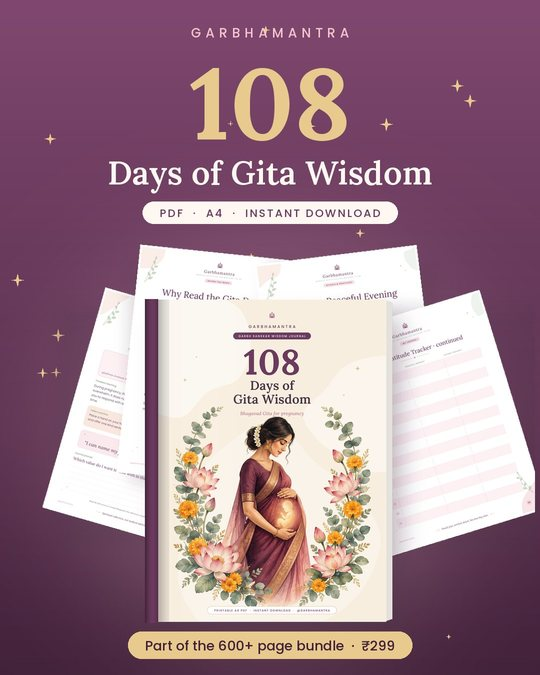
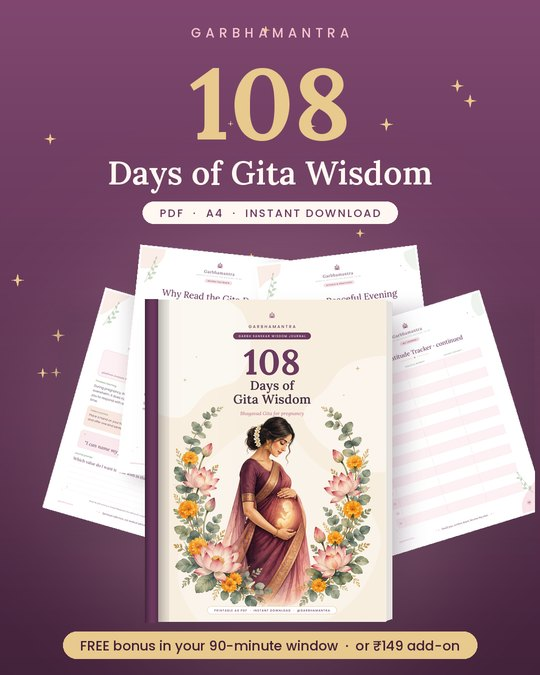
New offer: 7-book bundle (500+ pages) + Brain & Bonding and Gita ₹149 add-ons
Copy, offer card, checklist and FAQ updated; banner, hero, share image and
category cards regenerated; images versioned to bust caches.

Changed region(s): [[0.1185, 0.9333, 0.8889, 0.9956]]

diff --git a/index.html b/index.html
@@ -5,13 +5,13 @@
 <meta name="viewport" content="width=device-width, initial-scale=1">
 <meta name="color-scheme" content="only light">
 <meta name="theme-color" content="#6B3A5E">
-<meta property="og:title" content="600+ Page Pregnancy Activity Bundle · Garbhamantra">
-<meta property="og:description" content="8 printable activity books for mothers-to-be, plus a free Bhagavad Gita for Pregnancy bonus. ₹299, instant download.">
-<meta property="og:image" content="https://garbhamantra.com/img/og.jpg">
+<meta property="og:title" content="500+ Page Pregnancy Activity Bundle · Garbhamantra">
+<meta property="og:description" content="7 printable activity books for mothers-to-be, plus a free Bhagavad Gita for Pregnancy bonus. ₹299, instant download.">
+<meta property="og:image" content="https://garbhamantra.com/img/og.jpg?v=20261023">
 <meta property="og:url" content="https://garbhamantra.com/">
 <meta name="twitter:card" content="summary_large_image">
 <title>Garbhamantra Activity Books</title>
-<meta name="description" content="8 beautifully designed activity books for mothers-to-be, 614 printable pages, plus a free Bhagavad Gita for Pregnancy bonus book.">
+<meta name="description" content="7 beautifully designed activity books for mothers-to-be, 514 printable pages, plus a free Bhagavad Gita for Pregnancy bonus book and an optional Brain &amp; Bonding add-on.">
 <link rel="preconnect" href="https://fonts.googleapis.com">
 <link rel="preconnect" href="https://fonts.gstatic.com" crossorigin>
 <link rel="stylesheet" href="https://fonts.googleapis.com/css2?family=Lora:ital,wght@0,400;0,500;0,600;1,400;1,500&family=Poppins:wght@300;400;500;600&display=swap">
@@ -217,6 +217,7 @@ footer{padding-block:48px 120px;font-size:.84rem;color:var(--muted)}
 .book.bonus .tagb{display:inline-block;background:var(--rose);color:#fff;font-size:.7rem;letter-spacing:.12em;padding:5px 12px;border-radius:999px;margin-bottom:8px}
 .book.bonus h3{font-size:1.35rem;margin-bottom:6px}
 .book .cv img{aspect-ratio:1/1;object-fit:cover}
+.book.addon-card{background:#EEF3EA;border-color:var(--sage-deep)}.book.addon-card .tagb{background:var(--sage-deep)}
 .addon{display:grid;grid-template-columns:22px 1fr auto;gap:12px;align-items:start;text-align:left;background:var(--blush-soft);border-radius:14px;padding:12px 14px;font-size:.92rem}
 .buybar .bt2{font-size:.7rem;color:var(--rose);font-variant-numeric:tabular-nums}
 
@@ -265,7 +266,7 @@ html{scroll-padding-top:64px}
   <symbol id="check" viewBox="0 0 22 22"><circle cx="11" cy="11" r="11" fill="#E7EEE3"/><path d="M6.5 11.5l3 3 6-7" fill="none" stroke="#6E8A66" stroke-width="2" stroke-linecap="round" stroke-linejoin="round"/></symbol>
 </svg>
 
-<div class="topbar" id="topbar"><span data-bonus-on>Order in the next <span class="tt" data-timer-text>1:30:00</span> and get the <b>Bhagavad Gita for Pregnancy</b> book FREE</span><span data-bonus-off hidden>All 8 books for <b data-price>₹299</b> · Add the Gita book at checkout for <b data-addon>₹149</b></span></div>
+<div class="topbar" id="topbar"><span data-bonus-on>Order in the next <span class="tt" data-timer-text>1:30:00</span> and get the <b>Bhagavad Gita for Pregnancy</b> book FREE</span><span data-bonus-off hidden>All 7 books for <b data-price>₹299</b> · Add the Gita or Brain &amp; Bonding at checkout for <b data-addon>₹149</b> each</span></div>
 
 <div class="wrap">
   <nav class="nav" aria-label="Main">
@@ -278,24 +279,24 @@ html{scroll-padding-top:64px}
 <!-- ===== TOP FUNNEL ===== -->
 <section class="tf">
   <div class="wrap">
-    <h1 class="tf-h">600+ Page Pregnancy Activity Book Bundle <span>in One Price</span></h1>
-    <p class="tf-sub">From mazes and sudoku to mandalas, tracing and baby-bonding, something calm on every page.</p>
-    <a href="#offer" data-buy class="tf-banner-link"><img class="tf-banner" src="img/banner-hero.jpg" alt="600+ page Pregnancy Activity Book Bundle, printable PDF activities, ₹299" width="1600" height="900" fetchpriority="high"></a>
+    <h1 class="tf-h">500+ Page Pregnancy Activity Book Bundle <span>in One Price</span></h1>
+    <p class="tf-sub">From mazes and sudoku to memory games, mandalas and blooming letters, something calm on every page.</p>
+    <a href="#offer" data-buy class="tf-banner-link"><img class="tf-banner" src="img/banner-hero.jpg?v=20261023" alt="500+ page Pregnancy Activity Book Bundle, printable PDF activities, ₹299" width="1600" height="900" fetchpriority="high"></a>
   </div>
 </section>
 <!-- ===== QUICK CHECKLIST ===== -->
-<section class="quick"><div class="wrap"><ul class="quick-list"><li><span class="ck"><svg width="18" height="18" viewBox="0 0 18 18" aria-hidden="true"><path d="M4 9.5l3.2 3.2L14 5.8" fill="none" stroke="#4E2744" stroke-width="2.4" stroke-linecap="round" stroke-linejoin="round"/></svg></span><span>Mazes, Sudoku, Memory, Mandala, Tracing &amp; Bonding Activities</span></li><li><span class="ck"><svg width="18" height="18" viewBox="0 0 18 18" aria-hidden="true"><path d="M4 9.5l3.2 3.2L14 5.8" fill="none" stroke="#4E2744" stroke-width="2.4" stroke-linecap="round" stroke-linejoin="round"/></svg></span><span><span data-bonus-on>FREE Gita Bonus Book if you order in the next <b data-timer-text>1:30:00</b></span><span data-bonus-off hidden>Add the Gita Bonus Book for just <b data-addon>₹149</b></span></span></li><li><span class="ck"><svg width="18" height="18" viewBox="0 0 18 18" aria-hidden="true"><path d="M4 9.5l3.2 3.2L14 5.8" fill="none" stroke="#4E2744" stroke-width="2.4" stroke-linecap="round" stroke-linejoin="round"/></svg></span><span>Printable PDF &nbsp;|&nbsp; Instant Access &nbsp;|&nbsp; Lifetime Access</span></li><li><span class="ck"><svg width="18" height="18" viewBox="0 0 18 18" aria-hidden="true"><path d="M4 9.5l3.2 3.2L14 5.8" fill="none" stroke="#4E2744" stroke-width="2.4" stroke-linecap="round" stroke-linejoin="round"/></svg></span><span>Works on Mobile, Tablet &amp; Computer</span></li><li><span class="ck"><svg width="18" height="18" viewBox="0 0 18 18" aria-hidden="true"><path d="M4 9.5l3.2 3.2L14 5.8" fill="none" stroke="#4E2744" stroke-width="2.4" stroke-linecap="round" stroke-linejoin="round"/></svg></span><span>600+ pages &nbsp;·&nbsp; 8 books &nbsp;·&nbsp; just <b data-price>₹299</b></span></li></ul></div></section>
+<section class="quick"><div class="wrap"><ul class="quick-list"><li><span class="ck"><svg width="18" height="18" viewBox="0 0 18 18" aria-hidden="true"><path d="M4 9.5l3.2 3.2L14 5.8" fill="none" stroke="#4E2744" stroke-width="2.4" stroke-linecap="round" stroke-linejoin="round"/></svg></span><span>Mazes, Sudoku, Memory, Mandala &amp; Blooming Letters Activities</span></li><li><span class="ck"><svg width="18" height="18" viewBox="0 0 18 18" aria-hidden="true"><path d="M4 9.5l3.2 3.2L14 5.8" fill="none" stroke="#4E2744" stroke-width="2.4" stroke-linecap="round" stroke-linejoin="round"/></svg></span><span><span data-bonus-on>FREE Gita Bonus Book if you order in the next <b data-timer-text>1:30:00</b></span><span data-bonus-off hidden>Add the Gita Bonus Book for just <b data-addon>₹149</b></span></span></li><li><span class="ck"><svg width="18" height="18" viewBox="0 0 18 18" aria-hidden="true"><path d="M4 9.5l3.2 3.2L14 5.8" fill="none" stroke="#4E2744" stroke-width="2.4" stroke-linecap="round" stroke-linejoin="round"/></svg></span><span>Add 95+ Brain &amp; Bonding Activities for just <b data-bonding>₹149</b></span></li><li><span class="ck"><svg width="18" height="18" viewBox="0 0 18 18" aria-hidden="true"><path d="M4 9.5l3.2 3.2L14 5.8" fill="none" stroke="#4E2744" stroke-width="2.4" stroke-linecap="round" stroke-linejoin="round"/></svg></span><span>Printable PDF &nbsp;|&nbsp; Instant Access &nbsp;|&nbsp; Lifetime Access</span></li><li><span class="ck"><svg width="18" height="18" viewBox="0 0 18 18" aria-hidden="true"><path d="M4 9.5l3.2 3.2L14 5.8" fill="none" stroke="#4E2744" stroke-width="2.4" stroke-linecap="round" stroke-linejoin="round"/></svg></span><span>Works on Mobile, Tablet &amp; Computer</span></li><li><span class="ck"><svg width="18" height="18" viewBox="0 0 18 18" aria-hidden="true"><path d="M4 9.5l3.2 3.2L14 5.8" fill="none" stroke="#4E2744" stroke-width="2.4" stroke-linecap="round" stroke-linejoin="round"/></svg></span><span>500+ pages &nbsp;·&nbsp; 7 books &nbsp;·&nbsp; just <b data-price>₹299</b></span></li></ul></div></section>
 <section class="tf-offer-sec">
   <div class="wrap">
     <div class="tf-offer">
-      <p class="tf-offer-t"><span class="tag">SPECIAL OFFER</span> 600+ page bundle <b>+ FREE Gita bonus book</b></p>
+      <p class="tf-offer-t"><span class="tag">SPECIAL OFFER</span> 500+ page bundle <b>+ FREE Gita bonus book</b></p>
       <div class="timer" data-bonus-on aria-live="polite">
         <span class="u"><b data-h>01</b><small>HRS</small></span><span class="sep">:</span>
         <span class="u"><b data-m>30</b><small>MIN</small></span><span class="sep">:</span>
         <span class="u"><b data-s>00</b><small>SEC</small></span>
       </div>
       <p class="tf-offer-off" data-bonus-off hidden>Bonus window ended. Add the Gita book at checkout for <span data-addon>₹149</span>.</p>
-      <a class="btn btn-primary tf-btn" data-buy href="#offer">Get all 8 books for <span data-price>₹299</span> <span aria-hidden="true">→</span></a>
+      <a class="btn btn-primary tf-btn" data-buy href="#offer">Get all 7 books for <span data-price>₹299</span> <span aria-hidden="true">→</span></a>
     </div>
   </div>
 </section>
@@ -305,9 +306,9 @@ html{scroll-padding-top:64px}
   <div class="blob b1"></div><div class="blob b2"></div><div class="blob b3"></div>
   <div class="wrap hero-grid">
     <div class="hero-copy">
-      <span class="eyebrow">600+ page pregnancy activity bundle</span>
+      <span class="eyebrow">500+ page pregnancy activity bundle</span>
       <h2 class="h1like">Nine months of calm, <em>one page</em> at a time.</h2>
-      <p class="lead">Eight beautifully designed books of mazes, mandalas, puzzles and bonding activities. A few quiet minutes a day to slow your breath, sharpen your mind and talk to your baby.</p>
+      <p class="lead">Seven beautifully designed books of mazes, mandalas, puzzles and memory games. A few quiet minutes a day to slow your breath, sharpen your mind and talk to your baby.</p>
       <div class="price-line">
         <span class="price-now" data-price>₹299</span>
         <span class="price-old" data-mrp hidden></span>
@@ -323,18 +324,18 @@ html{scroll-padding-top:64px}
       </div>
       <p class="bonus-ended" data-bonus-off hidden>The free bonus window has ended. You can still add the Bhagavad Gita for Pregnancy book at checkout for <span data-addon>₹149</span>.</p>
       <div class="cta-row">
-        <a class="btn btn-primary" data-buy href="#offer">Get all 8 books <span aria-hidden="true">→</span></a>
+        <a class="btn btn-primary" data-buy href="#offer">Get all 7 books <span aria-hidden="true">→</span></a>
         <a class="btn btn-ghost" href="#peek">Peek inside</a>
       </div>
       <div class="micro">
         <span><svg width="16" height="16" viewBox="0 0 16 16" aria-hidden="true"><path d="M8 1v9m0 0l-3.5-3.5M8 10l3.5-3.5M2 13h12" fill="none" stroke="#C46F8A" stroke-width="1.6" stroke-linecap="round"/></svg>Instant download</span>
-        <span><svg width="16" height="16" viewBox="0 0 16 16" aria-hidden="true"><rect x="3" y="1.5" width="10" height="13" rx="1.5" fill="none" stroke="#C46F8A" stroke-width="1.5"/><path d="M5.5 5h5M5.5 8h5M5.5 11h3" stroke="#C46F8A" stroke-width="1.3" stroke-linecap="round"/></svg>614 A4 pages</span>
+        <span><svg width="16" height="16" viewBox="0 0 16 16" aria-hidden="true"><rect x="3" y="1.5" width="10" height="13" rx="1.5" fill="none" stroke="#C46F8A" stroke-width="1.5"/><path d="M5.5 5h5M5.5 8h5M5.5 11h3" stroke="#C46F8A" stroke-width="1.3" stroke-linecap="round"/></svg>514 A4 pages</span>
         <span><svg width="16" height="16" viewBox="0 0 16 16" aria-hidden="true"><path d="M8 14s-5.5-3.4-5.5-7.2A3 3 0 018 5a3 3 0 015.5 1.8C13.5 10.6 8 14 8 14z" fill="none" stroke="#C46F8A" stroke-width="1.5"/></svg>Yours forever</span>
       </div>
     </div>
     <div class="hero-shot">
-      <img src="img/hero-scene.jpg" alt="Two mothers-to-be with all eight Garbhamantra activity books" width="1080" height="1350">
-      <span class="ribbon">600+ PAGES · 8 BOOKS</span>
+      <img src="img/hero-scene.jpg?v=20261023" alt="Two mothers-to-be with all seven Garbhamantra activity books" width="1080" height="1350">
+      <span class="ribbon">500+ PAGES · 7 BOOKS</span>
     </div>
   </div>
 </header>
@@ -357,10 +358,10 @@ html{scroll-padding-top:64px}
 <!-- ===== CATEGORY STRIP ===== -->
 <section class="cats-sec">
   <div class="wrap">
-    <div class="sec-head center"><span class="eyebrow">Pick your calm</span><h2>Nine books, <em>one bundle</em></h2></div>
+    <div class="sec-head center"><span class="eyebrow">Pick your calm</span><h2>Seven books, <em>one bundle</em></h2></div>
   </div>
-  <div class="cats"><a class="cat" href="#books"><img src="img/c-card-01-maze.jpg" alt="100+ Maze &amp; Path Challenges" loading="lazy" width="540" height="675"></a><a class="cat" href="#books"><img src="img/c-card-02-logic.jpg" alt="85+ Sudoku &amp; Logic Puzzles" loading="lazy" width="540" height="675"></a><a class="cat" href="#books"><img src="img/c-card-03-memory.jpg" alt="100 Memory &amp; Matching Activities" loading="lazy" width="540" height="675"></a><a class="cat" href="#books"><img src="img/c-card-04-mandala1.jpg" alt="90+ Mandala Colouring Pages, Vol 1" loading="lazy" width="540" height="675"></a><a class="cat" href="#books"><img src="img/c-card-05-mandala2.jpg" alt="30+ Mandala Colouring Pages, Vol 2" loading="lazy" width="540" height="675"></a><a class="cat" href="#books"><img src="img/c-card-06-mandala3.jpg" alt="50 Mandala Colouring Pages, Vol 3" loading="lazy" width="540" height="675"></a><a class="cat" href="#books"><img src="img/c-card-07-bloom.jpg" alt="35+ Blooming Letters Colouring Pages" loading="lazy" width="540" height="675"></a><a class="cat" href="#books"><img src="img/c-card-08-bonding.jpg" alt="95+ Brain &amp; Bonding Activities" loading="lazy" width="540" height="675"></a><a class="cat" href="#books"><img src="img/c-card-09-gita.jpg" alt="108 Days of Gita Wisdom (free bonus)" loading="lazy" width="540" height="675"></a></div>
-  <p class="cats-hint">Swipe to see every book →</p>
+  <div class="cats"><a class="cat" href="#books"><img src="img/c-card-01-maze.jpg?v=20261023" alt="100+ Maze &amp; Path Challenges" loading="lazy" width="540" height="675"></a><a class="cat" href="#books"><img src="img/c-card-02-logic.jpg?v=20261023" alt="85+ Sudoku &amp; Logic Puzzles" loading="lazy" width="540" height="675"></a><a class="cat" href="#books"><img src="img/c-card-03-memory.jpg?v=20261023" alt="100 Memory &amp; Matching Activities" loading="lazy" width="540" height="675"></a><a class="cat" href="#books"><img src="img/c-card-04-mandala1.jpg?v=20261023" alt="90+ Mandala Colouring Pages, Vol 1" loading="lazy" width="540" height="675"></a><a class="cat" href="#books"><img src="img/c-card-05-mandala2.jpg?v=20261023" alt="30+ Mandala Colouring Pages, Vol 2" loading="lazy" width="540" height="675"></a><a class="cat" href="#books"><img src="img/c-card-06-mandala3.jpg?v=20261023" alt="50 Mandala Colouring Pages, Vol 3" loading="lazy" width="540" height="675"></a><a class="cat" href="#books"><img src="img/c-card-07-bloom.jpg?v=20261023" alt="35+ Blooming Letters Colouring Pages" loading="lazy" width="540" height="675"></a><a class="cat" href="#books"><img src="img/c-card-08-bonding.jpg?v=20261023" alt="95+ Brain &amp; Bonding Activities (₹149 add-on)" loading="lazy" width="540" height="675"></a><a class="cat" href="#books"><img src="img/c-card-09-gita.jpg?v=20261023" alt="108 Days of Gita Wisdom (free bonus or ₹149 add-on)" loading="lazy" width="540" height="675"></a></div>
+  <p class="cats-hint">Swipe to see every book and the two add-ons →</p>
 </section>
 
 <!-- ===== FEELINGS / BENEFITS ===== -->
@@ -375,7 +376,7 @@ html{scroll-padding-top:64px}
       <article class="feel">
         <div class="ic"><svg width="26" height="26" viewBox="0 0 26 26"><path d="M3 13c3-5 7-5 10 0s7 5 10 0" fill="none" stroke="#C46F8A" stroke-width="1.8" stroke-linecap="round"/><path d="M3 19c3-5 7-5 10 0s7 5 10 0" fill="none" stroke="#C46F8A" stroke-width="1.8" stroke-linecap="round" opacity=".5"/></svg></div>
         <h3>A calmer mind</h3>
-        <p>Colouring and tracing slow the breath and quiet a racing head, especially on anxious days.</p>
+        <p>Slow colouring and gentle puzzles ease the breath and quiet a racing head, especially on anxious days.</p>
       </article>
       <article class="feel">
         <div class="ic"><svg width="26" height="26" viewBox="0 0 26 26"><circle cx="13" cy="13" r="9" fill="none" stroke="#6E8A66" stroke-width="1.8"/><circle cx="13" cy="13" r="4" fill="none" stroke="#6E8A66" stroke-width="1.8"/><circle cx="13" cy="13" r="1" fill="#6E8A66"/></svg></div>
@@ -390,7 +391,7 @@ html{scroll-padding-top:64px}
       <article class="feel">
         <div class="ic"><svg width="26" height="26" viewBox="0 0 26 26"><path d="M7 21l4-12 3 6 2-3 3 9" fill="none" stroke="#B48A45" stroke-width="1.8" stroke-linecap="round" stroke-linejoin="round"/><circle cx="18" cy="6" r="2.5" fill="none" stroke="#B48A45" stroke-width="1.8"/></svg></div>
         <h3>Nimble hands</h3>
-        <p>Finger gym, tracing and handwriting pages keep fine motor skills soft and ready for baby days.</p>
+        <p>Colouring mandalas and blooming letters keeps fine motor skills soft and ready for baby days.</p>
       </article>
     </div>
   </div>
@@ -401,12 +402,11 @@ html{scroll-padding-top:64px}
   <div class="wrap">
     <div class="sec-head center">
       <span class="eyebrow">Everything in the bundle</span>
-      <h2>Eight books, one gentle journey</h2>
+      <h2>Seven books, one gentle journey</h2>
       <div class="divider"><svg width="12" height="11" viewBox="0 0 12 11"><path d="M6 10.5S.5 7 .5 3.4A2.8 2.8 0 016 2a2.8 2.8 0 015.5 1.4C11.5 7 6 10.5 6 10.5z" fill="#C46F8A"/></svg></div>
     </div>
     <div class="book-grid">
       <article class="book bonus" id="bonus-card"><div class="cv"><img src="img/mock-gita.jpg" alt="Bhagavad Gita for Pregnancy book with sample pages" loading="lazy" width="1000" height="1000"></div><div><span class="tagb" data-bonus-on>FREE BONUS · ENDS IN <span data-timer-text>1:30:00</span></span><span class="tagb" data-bonus-off hidden>ADD-ON · <span data-addon>₹149</span></span><h3>Bhagavad Gita for Pregnancy</h3><div class="meta"><span>108-day journey</span><span class="pages">143 pages</span></div><p style="margin-top:8px">One verse, one reflection, one affirmation and one journal prompt for each of 108 days, with the original Sanskrit anchor verses for every chapter.</p></div></article>
-      <article class="book"><div class="cv"><img src="img/mock-bonding.jpg" alt="Brain and Bonding book with sample pages" loading="lazy" width="1000" height="1000"></div><div class="meta"><span>Brain &amp; Bonding</span><span class="pages">100 pages</span></div><p>Tracing, finger gym, breathing spirals, name lists and affirmation handwriting.</p></article>
       <article class="book"><div class="cv"><img src="img/mock-maze.jpg" alt="Maze &amp; Path Challenges book with sample pages" loading="lazy" width="1000" height="1000"></div><div class="meta"><span>Maze &amp; Path Challenges</span><span class="pages">103 pages</span></div><p>Gentle seasonal mazes up to 60 expert challenges, plus an alphabet maze A to Z.</p></article>
       <article class="book"><div class="cv"><img src="img/mock-logic.jpg" alt="Sudoku &amp; Logic Puzzles book with sample pages" loading="lazy" width="1000" height="1000"></div><div class="meta"><span>Sudoku &amp; Logic Puzzles</span><span class="pages">89 pages</span></div><p>Shape, picture and number sudoku in three levels, with answer keys.</p></article>
       <article class="book"><div class="cv"><img src="img/mock-memory.jpg" alt="Memory and Matching book with sample pages" loading="lazy" width="1000" height="1000"></div><div class="meta"><span>Memory &amp; Matching</span><span class="pages">102 pages</span></div><p>Find the match, memory grids and recall challenges from easy to expert.</p></article>
@@ -414,10 +414,11 @@ html{scroll-padding-top:64px}
       <article class="book"><div class="cv"><img src="img/mock-mandala2.jpg" alt="Mandala Colouring · Vol 2 book with sample pages" loading="lazy" width="1000" height="1000"></div><div class="meta"><span>Mandala Colouring · Vol 2</span><span class="pages">34 pages</span></div><p>Detailed full-page mandalas for long, slow colouring sessions.</p></article>
       <article class="book"><div class="cv"><img src="img/mock-mandala3.jpg" alt="Mandala Colouring · Vol 3 book with sample pages" loading="lazy" width="1000" height="1000"></div><div class="meta"><span>Mandala Colouring · Vol 3</span><span class="pages">52 pages</span></div><p>Fifty framed mandalas. Colour one a day for seven weeks.</p></article>
       <article class="book"><div class="cv"><img src="img/mock-bloom.jpg" alt="Blooming Letters book with sample pages" loading="lazy" width="1000" height="1000"></div><div class="meta"><span>Blooming Letters</span><span class="pages">40 pages</span></div><p>Botanical drawings and a floral A to Z. Colour your baby's initial.</p></article>
+      <article class="book bonus addon-card" id="bonding-card"><div class="cv"><img src="img/mock-bonding.jpg" alt="Brain and Bonding book with sample pages" loading="lazy" width="1000" height="1000"></div><div><span class="tagb">ADD-ON · <span data-bonding>₹149</span></span><h3>Brain &amp; Bonding</h3><div class="meta"><span>95+ activities</span><span class="pages">100 pages</span></div><p style="margin-top:8px">Tracing, finger gym, breathing spirals, baby-name lists and affirmation handwriting. Not part of the ₹299 bundle: tick it at checkout to add it.</p></div></article>
     </div>
     <div class="total">
-      <span><b>8</b> books</span>
-      <span><b>614</b> pages</span>
+      <span><b>7</b> books</span>
+      <span><b>514</b> pages</span>
       <span><b>+143</b> bonus pages</span>
     </div>
   </div>
@@ -435,10 +436,10 @@ html{scroll-padding-top:64px}
       <div class="g-track" id="track" tabindex="0" aria-label="Sample pages, scroll sideways">
         <figure class="g-item"><img src="img/p-mandala.jpg" alt="Mandala page with the affirmation I am mindful" loading="lazy" width="300" height="424"><figcaption>Affirmation mandala</figcaption></figure>
         <figure class="g-item"><img src="img/p-gita.jpg" alt="Bhagavad Gita day page with Sanskrit verse and affirmation" loading="lazy" width="300" height="424"><figcaption>Gita day page (bonus)</figcaption></figure>
-        <figure class="g-item"><img src="img/p-breath.jpg" alt="Finger labyrinth breathing spiral" loading="lazy" width="300" height="424"><figcaption>Breathing spiral</figcaption></figure>
+        <figure class="g-item"><img src="img/p-breath.jpg" alt="Finger labyrinth breathing spiral" loading="lazy" width="300" height="424"><figcaption>Breathing spiral (Brain &amp; Bonding add-on)</figcaption></figure>
         <figure class="g-item"><img src="img/p-maze.jpg" alt="Spring maze puzzle page" loading="lazy" width="300" height="424"><figcaption>Gentle maze</figcaption></figure>
         <figure class="g-item"><img src="img/p-sudoku.jpg" alt="Sudoku with pastel shapes" loading="lazy" width="300" height="424"><figcaption>Shape sudoku</figcaption></figure>
-        <figure class="g-item"><img src="img/p-affirm.jpg" alt="Affirmation handwriting page" loading="lazy" width="300" height="424"><figcaption>Affirmation handwriting</figcaption></figure>
+        <figure class="g-item"><img src="img/p-affirm.jpg" alt="Affirmation handwriting page" loading="lazy" width="300" height="424"><figcaption>Affirmation handwriting (Brain &amp; Bonding add-on)</figcaption></figure>
         <figure class="g-item"><img src="img/p-flower.jpg" alt="Sunflower colouring page" loading="lazy" width="300" height="424"><figcaption>Botanical colouring</figcaption></figure>
         <figure class="g-item"><img src="img/p-memory.jpg" alt="Memory matching page" loading="lazy" width="300" height="424"><figcaption>Memory match</figcaption></figure>
         <figure class="g-item"><img src="img/p-alpha.jpg" alt="Alphabet letter maze" loading="lazy" width="300" height="424"><figcaption>Alphabet maze</figcaption></figure>
@@ -463,7 +464,7 @@ html{scroll-padding-top:64px}
     <div class="day">
       <article class="moment"><div class="orb"></div><span class="time">Morning</span><h3>Wake the mind</h3><p>A maze or a sudoku with your chai. Five minutes of easy focus to start the day bright.</p></article>
       <article class="moment"><div class="orb"></div><span class="time">Afternoon</span><h3>Slow down</h3><p>Colour a mandala after lunch. Let each stroke lengthen your breath.</p></article>
-      <article class="moment"><div class="orb"></div><span class="time">Evening</span><h3>Talk to your baby</h3><p>Trace an affirmation and read it aloud. Your voice is the sound your baby knows best.</p></article>
+      <article class="moment"><div class="orb"></div><span class="time">Evening</span><h3>Talk to your baby</h3><p>Colour an affirmation mandala and read it aloud. Your voice is the sound your baby knows best.</p></article>
     </div>
   </div>
 </section>
@@ -476,7 +477,6 @@ html{scroll-padding-top:64px}
       <svg width="64" height="48" style="margin:0 auto" aria-hidden="true"><use href="#lotus"/></svg>
       <h2>The complete Garbhamantra collection</h2>
       <ul class="incl">
-        <li><svg width="22" height="22"><use href="#check"/></svg><span>Brain &amp; Bonding</span><small>100 pages</small></li>
         <li><svg width="22" height="22"><use href="#check"/></svg><span>Maze &amp; Path Challenges</span><small>103 pages</small></li>
         <li><svg width="22" height="22"><use href="#check"/></svg><span>Sudoku &amp; Logic Puzzles</span><small>89 pages</small></li>
         <li><svg width="22" height="22"><use href="#check"/></svg><span>Memory &amp; Matching</span><small>102 pages</small></li>
@@ -490,6 +490,7 @@ html{scroll-padding-top:64px}
         <span class="u"><b data-s>00</b><small>SEC</small></span>
       </div>
       <div class="addon" data-bonus-off hidden><svg width="22" height="22"><use href="#check"/></svg><span>Add Bhagavad Gita for Pregnancy at checkout</span><small data-addon>₹149</small></div>
+      <div class="addon"><svg width="22" height="22"><use href="#check"/></svg><span>Add Brain &amp; Bonding (95+ activities, 100 pages) at checkout</span><small data-bonding>₹149</small></div>
       <div class="price-line">
         <span class="price-now" data-price>₹299</span>
         <span class="price-old" data-mrp hidden></span>
@@ -530,8 +531,8 @@ html{scroll-padding-top:64px}
       <h2>Good to know</h2>
     </div>
     <div class="faq">
-      <details><summary>What exactly will I receive?</summary><p>Eight A4 PDF books with 614 pages in total: Brain &amp; Bonding, Maze &amp; Path Challenges, Sudoku &amp; Logic Puzzles, Memory &amp; Matching, Mandala Colouring Vol 1 to 3 and Blooming Letters.</p></details>
-      <details><summary>How does the free bonus work?</summary><p>When you first visit, you get 90 minutes to order with the Bhagavad Gita for Pregnancy book included free. The timer is yours and does not restart if you refresh. After it ends, the 8-book bundle stays at the same price and the Gita book is available as an optional add-on at checkout.</p></details>
+      <details><summary>What exactly will I receive?</summary><p>Seven A4 PDF books with 514 pages in total: Maze &amp; Path Challenges, Sudoku &amp; Logic Puzzles, Memory &amp; Matching, Mandala Colouring Vol 1 to 3 and Blooming Letters. At checkout you can add Brain &amp; Bonding (95+ activities, 100 pages) for <span data-bonding>₹149</span>.</p></details>
+      <details><summary>How does the free bonus work?</summary><p>When you first visit, you get 90 minutes to order with the Bhagavad Gita for Pregnancy book included free. The timer is yours and does not restart if you refresh. After it ends, the 7-book bundle stays at the same price and the Gita book is available as an optional add-on at checkout.</p></details>
       <details><summary>Is this a physical book?</summary><p>No. It's a digital download, so you can start today. Print the pages at home or at a local print shop, or use them on a tablet.</p></details>
       <details><summary>Which trimester is it for?</summary><p>All three. Start whenever you like. Many mothers keep going after the baby arrives, during quiet feeding hours.</p></details>
       <details><summary>Do I need to be good at puzzles or drawing?</summary><p>Not at all. Every book starts gentle and grows slowly. There is no right or wrong way to colour.</p></details>
@@ -549,8 +550,8 @@ html{scroll-padding-top:64px}
     <div class="closing">
       <svg width="74" height="56" aria-hidden="true"><use href="#lotus"/></svg>
       <h2>Give yourself a calmer pregnancy</h2>
-      <p class="lead">614 pages of peace for less than the cost of a coffee.</p>
-      <a class="btn btn-primary" data-buy href="#offer">Get all 8 books for <span data-price>₹299</span></a>
+      <p class="lead">514 pages of peace for less than the cost of a coffee.</p>
+      <a class="btn btn-primary" data-buy href="#offer">Get all 7 books for <span data-price>₹299</span></a>
     </div>
   </div>
 </section>
@@ -569,7 +570,7 @@ html{scroll-padding-top:64px}
       </div>
       <div>
         <h4>The collection</h4>
-        <p>8 books · 614 pages · A4 PDF</p>
+        <p>7 books · 514 pages · A4 PDF</p>
         <p>Instant digital download</p>
       </div>
     </div>
@@ -585,7 +586,7 @@ html{scroll-padding-top:64px}
 </footer>
 
 <div class="buybar" role="region" aria-label="Buy">
-  <div><div class="bp"><span data-price>₹299</span></div><div class="bs" data-bonus-off hidden>8 books · 614 pages</div><div class="bt2" data-bonus-on>+ free Gita book · <span data-timer-text>1:30:00</span></div></div>
+  <div><div class="bp"><span data-price>₹299</span></div><div class="bs" data-bonus-off hidden>7 books · 514 pages</div><div class="bt2" data-bonus-on>+ free Gita book · <span data-timer-text>1:30:00</span></div></div>
   <a class="btn btn-primary" data-buy href="#offer">Get the books</a>
 </div>
 
@@ -594,8 +595,9 @@ html{scroll-padding-top:64px}
 const CONFIG = {
   price: 299,                 // bundle price in ₹ (stays the same before and after the bonus window)
   mrp: 0,                     // a struck-out price; keep 0 unless you really sell at that price
-  pages: 614,
+  pages: 514,                 // the 7 bundle books (Brain & Bonding and Gita are add-ons)
   addonPrice: 149,            // Gita book add-on price after the bonus window
+  bondingPrice: 149,          // Brain & Bonding add-on price (always optional)
   bonusMinutes: 90,           // personal bonus window, starts at each visitor's first visit, never restarts
   checkoutBonusUrl: "",       // Razorpay page: ₹299 bundle WITH the Gita book included
   checkoutUrl: "",            // Razorpay page: ₹299 bundle, Gita book as an optional ₹149 add-on
@@ -615,6 +617,7 @@ const paise = Math.round(CONFIG.price / CONFIG.pages * 100);
 document.querySelectorAll("[data-perpage]").forEach(el => el.textContent = "That's about " + paise + " paise a page.");
 document.querySelectorAll("[data-pp]").forEach(el => el.textContent = paise + " paise a page");
 document.querySelectorAll("[data-addon]").forEach(el => el.textContent = inr(CONFIG.addonPrice));
+document.querySelectorAll("[data-bonding]").forEach(el => el.textContent = inr(CONFIG.bondingPrice));
 document.querySelectorAll("[data-email]").forEach(el => el.textContent = CONFIG.email);
 document.querySelectorAll("[data-insta]").forEach(el => el.textContent = CONFIG.instagram);
 
